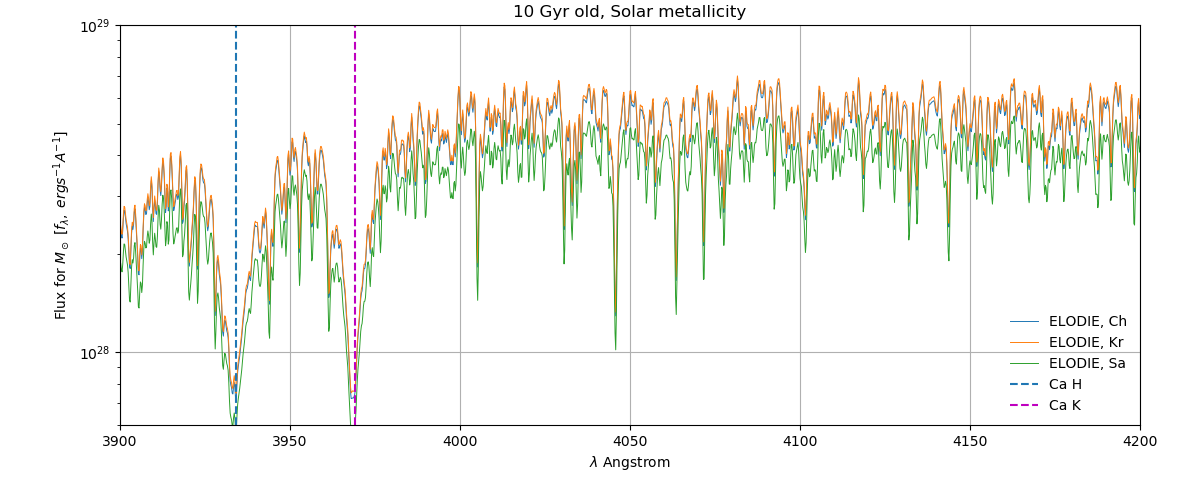
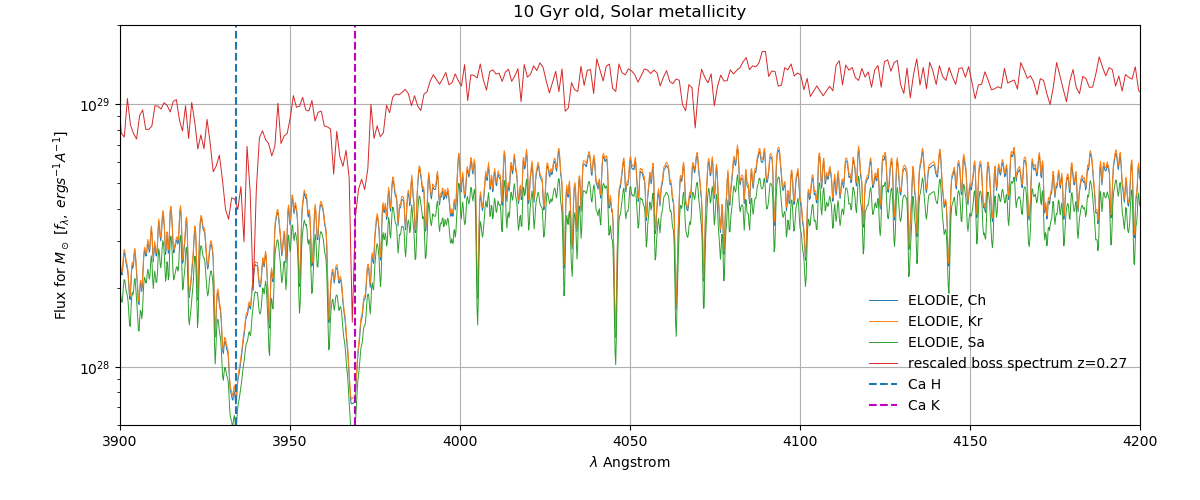
model plot

diff --git a/bin/bin_models/plot_galaxy_models.py b/bin/bin_models/plot_galaxy_models.py
@@ -4,12 +4,23 @@ import matplotlib.pyplot as p
 import sys
 import os
 import numpy as n
+import GalaxySpectrumFIREFLY as gs
 
 dir_elodie = os.path.join( os.environ['STELLARPOPMODELS_DIR'], 'data', 'SSP_M11_ELODIE') 
 dir_miles = os.path.join( os.environ['STELLARPOPMODELS_DIR'], 'data', 'SSP_M11_MILES') 
 dir_stelib = os.path.join( os.environ['STELLARPOPMODELS_DIR'], 'data', 'SSP_M11_STELIB') 
 
 IMF = {'cha': 'Ch', 'kr': 'Kr', 'ss': 'Sa'}
+
+spec_sdss = gs.GalaxySpectrumFIREFLY( '/home/comparat/SDSS/26/spectra/0266/spec-0266-51602-0004.fits' )
+spec_sdss.openObservedSDSSSpectrum('sdssMain')
+
+spec_boss = gs.GalaxySpectrumFIREFLY( '/home/comparat/SDSS/v5_10_0/spectra/3586/spec-3586-55181-0024.fits' )
+spec_boss.openObservedSDSSSpectrum('sdss4')
+
+path_2_deep2 = '/home/comparat/data2/firefly/v1_1_0/DEEP2/spectra/2/deep2-2249-22052688.fits' 
+spec_deep2 = gs.GalaxySpectrumFIREFLY( path_2_deep2 )
+spec_deep2.openObservedDEEP2pectrum(path_2_deep2, survey='deep2_fits')
 
 file_list_elodie = n.array([
 # chabrier
@@ -74,20 +85,22 @@ for file_name in file_list_miles:
 		sel = (DATA[0]==age)
 		p.plot(DATA[2][sel], DATA[3][sel],label="MILES, "+IMF[imf],rasterized=True, lw=0.7)
 
+#p.plot(spec_sdss.restframe_wavelength,  3e28*spec_sdss.flux, label='sdss')
+p.plot(spec_boss.restframe_wavelength,  3e28*spec_boss.flux, label='rescaled boss spectrum z='+str(n.round(spec_boss.redshift,2)), lw=0.7)
+#p.plot(spec_deep2.restframe_wavelength, 3e28*spec_deep2.flux, label='deep2')
 p.axvline(3934, ls='dashed', label='Ca H')
 p.axvline(3969, ls='dashed', label='Ca K', c='m')
 p.xlabel(r'$\lambda$ Angstrom')
 p.ylabel(r'Flux for $M_\odot$ $[f_{\lambda},\; erg s^{-1} A^{-1}]$')
 #p.xscale('log')
 p.yscale('log')
-p.ylim((6e27,1e29))
+p.ylim((6e27,2e29))
 p.xlim((3900,4200))
 p.grid()
 p.title(str(aaa)+' Gyr old, Solar metallicity')
 p.legend(frameon=False, loc=0)
 p.savefig('/home/comparat/software/linux/firefly_explore/data/images/models/Zsun_'+str(aaa)+'Gyr_MILES_models_38_45.png')
 p.clf()
-
 
 p.figure(0, (12,5))
 p.axes([0.1,0.15,0.85,0.8])
@@ -104,13 +117,16 @@ for file_name in file_list_stelib:
 		p.plot(DATA[2][sel], DATA[3][sel],label="STELIB "+IMF[imf],rasterized=True, lw=0.7)
 
 
+#p.plot(spec_sdss.restframe_wavelength,  1e30*spec_sdss.flux, label='sdss')
+p.plot(spec_boss.restframe_wavelength,  3e28*spec_boss.flux, label='rescaled boss spectrum z='+str(n.round(spec_boss.redshift,2)), lw=0.7)
+#p.plot(spec_deep2.restframe_wavelength, 1e30*spec_deep2.flux, label='deep2')
 p.axvline(3934, ls='dashed', label='Ca H')
 p.axvline(3969, ls='dashed', label='Ca K', c='m')
 p.xlabel(r'$\lambda$ Angstrom')
 p.ylabel(r'Flux for $M_\odot$ $[f_{\lambda},\; erg s^{-1} A^{-1}]$')
 #p.xscale('log')
 p.yscale('log')
-p.ylim((6e27,1e29))
+p.ylim((6e27,2e29))
 p.xlim((3900,4200))
 p.grid()
 p.title(str(aaa)+' Gyr old, Solar metallicity')
@@ -133,13 +149,16 @@ for file_name in file_list_elodie:
 		sel = (DATA[0]==age)
 		p.plot(DATA[2][sel], DATA[3][sel],label="ELODIE, "+IMF[imf],rasterized=True, lw=0.7)
 
+#p.plot(spec_sdss.restframe_wavelength,  1e30*spec_sdss.flux, label='sdss')
+p.plot(spec_boss.restframe_wavelength,  3e28*spec_boss.flux, label='rescaled boss spectrum z='+str(n.round(spec_boss.redshift,2)), lw=0.7)
+#p.plot(spec_deep2.restframe_wavelength, 1e30*spec_deep2.flux, label='deep2')
 p.axvline(3934, ls='dashed', label='Ca H')
 p.axvline(3969, ls='dashed', label='Ca K', c='m')
 p.xlabel(r'$\lambda$ Angstrom')
 p.ylabel(r'Flux for $M_\odot$ $[f_{\lambda},\; erg s^{-1} A^{-1}]$')
 #p.xscale('log')
 p.yscale('log')
-p.ylim((6e27,1e29))
+p.ylim((6e27,2e29))
 p.xlim((3900,4200))
 p.grid()
 p.title(str(aaa)+' Gyr old, Solar metallicity')
